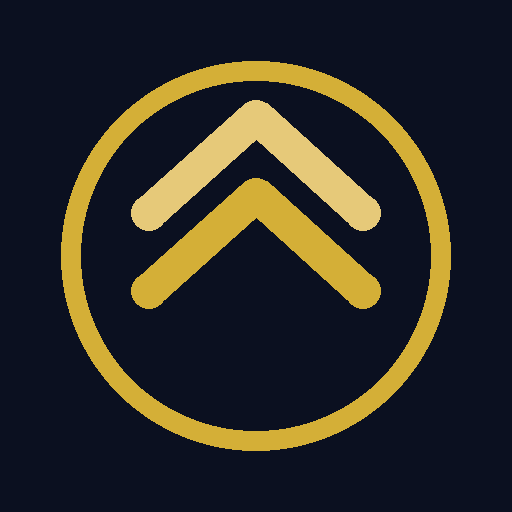
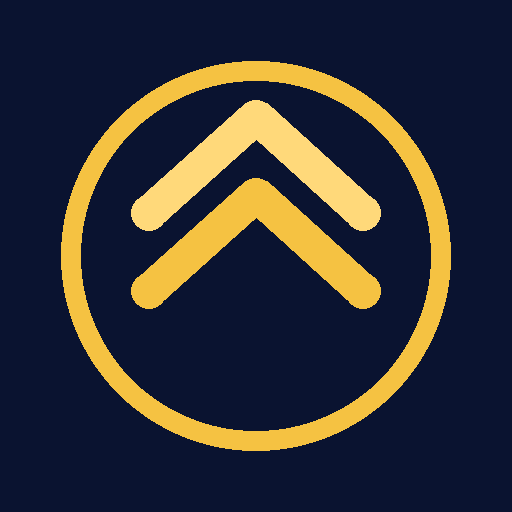
Add files via upload

Changed region(s): [[0.0938, 0.0938, 0.9062, 0.9062], [0.25, 0.1875, 0.75, 0.625]]

diff --git a/index.html b/index.html
@@ -1,29 +1,29 @@
 <!DOCTYPE html>
 <html lang="en"><head><meta charset="utf-8">
 <meta name="viewport" content="width=device-width, initial-scale=1, viewport-fit=cover">
-<meta name="theme-color" content="#0B1020"><link rel="manifest" href="manifest.webmanifest"><link rel="icon" href="icon-192.png"><link rel="apple-touch-icon" href="icon-192.png"><title>Ascend</title>
+<meta name="theme-color" content="#0A1330"><link rel="manifest" href="manifest.webmanifest"><link rel="icon" href="icon-192.png"><link rel="apple-touch-icon" href="icon-192.png"><title>Ascend</title>
 <style>
-:root{--bg:#0B1020;--card:#151C33;--ln:#2a3354;--ink:#F5EFE0;--mut:#9aa3bf;--gold:#D4AF37;--ch:#E6C979;--ruby:#E5395B;--amb:#F0A32F;--sap:#3D7BEB;--em:#2FBF8A;--am:#9B6BDB;color-scheme:dark}
+:root{--bg:#0A1330;--card:#16224A;--ln:#2F3F7A;--ink:#F5EFE0;--mut:#a9b6dc;--gold:#F5C242;--ch:#FFD97A;--ruby:#FF3D6A;--amb:#FFB020;--sap:#4C8DFF;--em:#22D69A;--am:#B07CFF;color-scheme:dark}
 *{box-sizing:border-box}body{margin:0;background:var(--bg);color:var(--ink);font:16px/1.4 "Trebuchet MS",Verdana,sans-serif;padding:env(safe-area-inset-top,0) 0 calc(84px + env(safe-area-inset-bottom,0))}
 .w{max-width:560px;margin:0 auto;padding:12px}
-.hero{background:linear-gradient(160deg,#0B1020,#17306b 70%,#2b5bb8);border:2px solid var(--gold);border-radius:18px;padding:16px;text-align:center}
+.hero{background:linear-gradient(160deg,#0A1330,#1f46b5 60%,#4a86ff);border:2px solid var(--gold);border-radius:18px;padding:16px;text-align:center}
 h1{margin:0;font:800 28px Georgia,serif;color:var(--ch);letter-spacing:4px}h3{margin:0 0 8px;font-size:16px;color:var(--ch)}h3.sec{margin:14px 0 8px}
 .card{background:var(--card);border:1px solid var(--ln);border-radius:14px;padding:14px;margin-top:12px}
 .mut{color:var(--mut);font-size:13px}.top{display:flex;gap:6px;align-items:center;flex-wrap:wrap}.top b{flex:1;font-size:17px}
 .chip{font-size:11px;font-weight:800;color:#fff;border-radius:10px;padding:2px 9px}.chip.o{background:transparent;border:1px solid var(--gold);color:var(--ch)}
-.nb{background:rgba(155,107,219,.16);border-left:4px solid var(--am);border-radius:8px;padding:8px 10px;margin:8px 0;font-size:14px}
+.nb{background:rgba(176,124,255,.18);border-left:4px solid var(--am);border-radius:8px;padding:8px 10px;margin:8px 0;font-size:14px}
 .btns{display:flex;gap:6px;flex-wrap:wrap;margin-top:8px}
 .b{background:transparent;color:var(--ink);border:1.5px solid var(--gold);border-radius:10px;padding:9px 12px;font:700 14px inherit;font-family:inherit;text-decoration:none;cursor:pointer;min-height:40px}
-.b.g{border-color:var(--em);color:var(--em)}.b.gold{background:var(--gold);color:#0B1020}
+.b.g{border-color:var(--em);color:var(--em)}.b.gold{background:linear-gradient(135deg,#F5C242,#FFE08F);color:#0A1330;border-color:#FFE08F;box-shadow:0 0 12px rgba(245,194,66,.35)}
 .sc{display:flex;align-items:center;gap:14px}.ring{position:relative;width:110px;height:110px;flex:none}.ring svg{transform:rotate(-90deg)}.ring b{position:absolute;inset:0;display:grid;place-items:center;font:800 30px Georgia,serif;color:var(--ch)}
-.st{font-weight:700}.bl{display:flex;justify-content:space-between;font-size:13px;margin-top:10px}.bar{height:10px;background:#0B1020;border-radius:6px;overflow:hidden;margin-top:3px}.bar i{display:block;height:100%;background:linear-gradient(90deg,var(--gold),var(--ch))}
+.st{font-weight:700}.bl{display:flex;justify-content:space-between;font-size:13px;margin-top:10px}.bar{height:10px;background:#0A1330;border-radius:6px;overflow:hidden;margin-top:3px}.bar i{display:block;height:100%;background:linear-gradient(90deg,var(--gold),var(--ch))}
 label{display:block;font-size:13px;color:var(--mut);margin:10px 0 3px}label.ck{display:flex;gap:8px;align-items:center;color:var(--ink);font-size:15px}
-input,select,textarea{width:100%;padding:10px;border:1.5px solid var(--ln);border-radius:10px;background:#0B1020;color:var(--ink);font:inherit}input[type=checkbox]{width:22px;height:22px}
-.fr{display:flex;gap:6px}.mic{background:var(--am);border:0;border-radius:10px;width:46px;font-size:18px;cursor:pointer}
+input,select,textarea{width:100%;padding:10px;border:1.5px solid var(--ln);border-radius:10px;background:#0A1330;color:var(--ink);font:inherit}input[type=checkbox]{width:22px;height:22px}
+.fr{display:flex;gap:6px}.fr textarea{flex:1}.mic{flex:none;width:46px;height:46px;border-radius:50%;display:grid;place-items:center;background:radial-gradient(circle at 30% 30%,#2e4399,#0A1330);border:2px solid var(--gold);box-shadow:0 0 10px rgba(245,194,66,.4);cursor:pointer}.mic.on{animation:pl 1s infinite;box-shadow:0 0 18px var(--gold)}@keyframes pl{50%{transform:scale(1.12)}}@media (prefers-reduced-motion:reduce){.mic.on{animation:none}}
 button:focus-visible,input:focus-visible,select:focus-visible,textarea:focus-visible,a:focus-visible{outline:3px solid var(--ch);outline-offset:2px}
 .row{display:flex;justify-content:space-between;padding:6px 0;border-top:1px solid var(--ln);font-size:14px}.row:first-of-type{border-top:0}
-nav{position:fixed;left:0;right:0;bottom:0;background:#070b17;border-top:1px solid var(--gold);display:flex;gap:6px;padding:8px 8px calc(8px + env(safe-area-inset-bottom,0))}
-nav button{flex:1;background:transparent;border:0;color:var(--mut);font:700 15px inherit;font-family:inherit;padding:12px 4px;border-radius:12px;cursor:pointer}nav button.act{background:var(--gold);color:#0B1020}
+nav{position:fixed;left:0;right:0;bottom:0;background:#060a1c;border-top:1px solid var(--gold);display:flex;gap:6px;padding:8px 8px calc(8px + env(safe-area-inset-bottom,0))}
+nav button{flex:1;background:transparent;border:0;color:var(--mut);font:700 15px inherit;font-family:inherit;padding:12px 4px;border-radius:12px;cursor:pointer}nav button.act{background:var(--gold);color:#0A1330}
 .cf{position:fixed;top:-16px;width:10px;height:14px;z-index:9;animation:fall 2.6s linear forwards}@keyframes fall{to{transform:translateY(110vh) rotate(540deg)}}
 </style></head><body><div class="w" id="app"></div>
 <nav><button data-a="tab" data-v="today">Today</button><button data-a="tab" data-v="leads">Leads</button><button data-a="tab" data-v="ins">Insights</button></nav>
@@ -38,7 +38,10 @@ const ymd=d=>d.getFullYear()+'-'+String(d.getMonth()+1).padStart(2,'0')+'-'+Stri
 const esc=s=>String(s==null?'':s).replace(/[&<>"]/g,c=>({'&':'&amp;','<':'&lt;','>':'&gt;','"':'&quot;'}[c]));
 const td=()=>ymd(new Date()),add=n=>{const d=new Date();d.setDate(d.getDate()+n);return ymd(d)},dd=s=>s?Math.round((new Date(td())-new Date(s))/864e5):0,money=n=>'₦'+Math.round(n||0).toLocaleString(),wa=p=>p.replace(/[^\d]/g,'').replace(/^0/,'234');
 const VS=!!(window.SpeechRecognition||window.webkitSpeechRecognition);
-let S=null,tab='today',ed,mg=null,lg=null,pd=null,mtx='';
+const MI='<svg viewBox="0 0 24 24" width="22" height="22" fill="none" stroke="#F5C242" stroke-width="2" stroke-linecap="round" stroke-linejoin="round"><rect x="9" y="3" width="6" height="11" rx="3" fill="#F5C242"/><path d="M5 11a7 7 0 0 0 14 0M12 18v3M9 21h6"/></svg>';
+const mc=(id,l)=>VS?`<button class="mic" data-a="mic" data-t="${id}" aria-label="Speak ${l}">${MI}</button>`:'';
+const QU=[['Whatever you do, work at it with all your heart.','Colossians 3:23'],['Well done is better than well said.','Benjamin Franklin'],['Commit your work to the Lord, and your plans will be established.','Proverbs 16:3'],['The secret of getting ahead is getting started.','Mark Twain'],['Diligent hands bring wealth.','Proverbs 10:4'],['Price is what you pay. Value is what you get.','Warren Buffett'],['Patience is a key element of success.','Bill Gates'],['The hand of the diligent will rule.','Proverbs 12:24']];
+let S=null,tab='today',ed,mg=null,lg=null,pd=null,mtx='',q='',fs='',ip=null;
 try{S=JSON.parse(localStorage.getItem('asc'))}catch(e){}
 if(!S||!S.leads)S={leads:[],log:[],tg:{d:2,w:10,m:40},cel:''};
 const save=()=>{try{localStorage.setItem('asc',JSON.stringify(S))}catch(e){}};
@@ -62,27 +65,27 @@ function vToday(){const dt=Math.max(1,S.tg.d),c=cnt(td()),t=S.log.filter(e=>e.d=
  const dl=S.leads.filter(l=>active(l)&&((l.fu&&l.fu<=td())||dd(l.last||l.created)>=7)).sort((a,b)=>RO[rate(a)]-RO[rate(b)]||(a.fu||'').localeCompare(b.fu||''));
  const bar=(l,v,g)=>{g=Math.max(1,g);return `<div class="bl"><span>${l}</span><span>${v} / ${g}</span></div><div class="bar"><i style="width:${Math.min(100,v/g*100)}%"></i></div>`};
  const pv=S.leads.filter(active).reduce((a,l)=>a+(+l.val||0),0),cm=S.leads.filter(l=>l.closed&&l.closed>=td().slice(0,8)+'01').reduce((a,l)=>a+(+l.val||0),0);
- return `<div class="hero"><h1>ASCEND</h1><div class="mut">${new Date().toLocaleDateString(undefined,{weekday:'long',day:'numeric',month:'long'})} · Rank: <b style="color:var(--ch)">${rk}</b></div></div>
-<div class="card"><div class="sc"><div class="ring"><svg width="110" height="110"><circle cx="55" cy="55" r="${R}" fill="none" stroke="#0B1020" stroke-width="11"/><circle cx="55" cy="55" r="${R}" fill="none" stroke="${sc>=70?'var(--em)':'var(--gold)'}" stroke-width="11" stroke-linecap="round" stroke-dasharray="${C}" stroke-dashoffset="${C*(1-sc/100)}"/></svg><b>${sc}</b></div><div><div class="st">${st?'🔥 '+st+'-day momentum':'Hit your daily target to start momentum'}</div><div class="mut">Daily score out of 100: contacts, inspections booked and deals closed.</div></div></div>${bar('Today',c,dt)}${bar('This week',cnt(wk()),S.tg.w)}${bar('This month',cnt(td().slice(0,8)+'01'),S.tg.m)}</div>
-<div class="card"><div class="row"><span>Pipeline value</span><b>${money(pv)}</b></div><div class="row"><span>Closed this month</span><b style="color:var(--em)">${money(cm)}</b></div></div>
+ return `<div class="hero"><h1>ASCEND</h1><div class="mut">${new Date().toLocaleDateString(undefined,{weekday:'long',day:'numeric',month:'long'})} · Rank: <b style="color:var(--ch)">${rk}</b></div></div>${ip?'<div class="btns" style="justify-content:center"><button class="b gold" data-a="inst">Install Ascend</button></div>':''}<div class="card" style="text-align:center;font:italic 14px Georgia,serif;color:var(--ch)">“${QU[Math.floor(Date.now()/864e5)%QU.length][0]}”<div class="mut" style="font-style:normal">${QU[Math.floor(Date.now()/864e5)%QU.length][1]}</div></div>
+<div class="card"><div class="sc"><div class="ring"><svg width="110" height="110"><circle cx="55" cy="55" r="${R}" fill="none" stroke="#0A1330" stroke-width="11"/><circle cx="55" cy="55" r="${R}" fill="none" stroke="${sc>=70?'var(--em)':'var(--gold)'}" stroke-width="11" stroke-linecap="round" stroke-dasharray="${C}" stroke-dashoffset="${C*(1-sc/100)}"/></svg><b>${sc}</b></div><div><div class="st">${st?'🔥 '+st+'-day momentum':'Hit your daily target to start momentum'}</div><div class="mut">Daily score out of 100: contacts, inspections booked and deals closed.</div></div></div>${bar('Today',c,dt)}${bar('This week',cnt(wk()),S.tg.w)}${bar('This month',cnt(td().slice(0,8)+'01'),S.tg.m)}</div>
+<div class="card"><div class="row"><span>Hot leads</span><b style="color:var(--ruby)">${S.leads.filter(l=>rate(l)==='hot').length}</b></div><div class="row"><span>Pipeline value</span><b>${money(pv)}</b></div><div class="row"><span>Closed this month</span><b style="color:var(--em)">${money(cm)}</b></div></div>
 <h3 class="sec">Call these first (${dl.length})</h3>${dl.length?dl.map(card).join(''):'<div class="card mut">Nobody is due. Add leads in Leads.</div>'}`}
-function vLeads(){const a=[...S.leads].sort((x,y)=>(active(y)-active(x))||((RO[rate(x)]??9)-(RO[rate(y)]??9)));
- return `<div class="hero"><h1>LEADS</h1><div class="mut">${S.leads.length} in total</div></div><div class="btns"><button class="b gold" data-a="new">+ New lead</button></div>${a.length?a.map(card).join(''):'<div class="card mut">No leads yet. Tap New lead, or use the microphone to speak the details.</div>'}`}
+function llist(){const k=q.toLowerCase(),a=S.leads.filter(l=>(!fs||l.stage===fs)&&(!k||(l.name+' '+l.phone+' '+l.prop).toLowerCase().includes(k))).sort((x,y)=>(active(y)-active(x))||((RO[rate(x)]??9)-(RO[rate(y)]??9)));return a.length?a.map(card).join(''):'<div class="card mut">No leads here yet. Tap New lead, or speak the details with the microphone.</div>'}
+function vLeads(){return `<div class="hero"><h1>LEADS</h1><div class="mut">${S.leads.length} in total</div></div><div class="btns"><button class="b gold" data-a="new">+ New lead</button></div><div class="fr" style="margin-top:10px"><input id="sq" placeholder="Search name, phone or property" value="${esc(q)}">${mc('sq','search')}</div><div class="btns">${['',...ST].map(t=>`<button class="b${fs===t?' gold':''}" data-a="fs" data-s="${t}">${t||'All'}</button>`).join('')}</div><div id="ll">${llist()}</div>`}
 function vForm(){const x=ed||{name:'',phone:'',prop:'',src:SRC[0],stage:'New',fu:add(1),val:'',notes:'',q:[],lost:''};
- const f=(id,l,v,t,m)=>`<label for="${id}">${l}</label><div class="fr"><input id="${id}" type="${t||'text'}" value="${esc(v)}">${m&&VS?`<button class="mic" data-a="mic" data-t="${id}" aria-label="Speak ${l}">🎤</button>`:''}</div>`;
+ const f=(id,l,v,t,m)=>`<label for="${id}">${l}</label><div class="fr"><input id="${id}" type="${t||'text'}" value="${esc(v)}">${m?mc(id,l):''}</div>`;
  const sel=(id,l,a,v)=>`<label for="${id}">${l}</label><select id="${id}">${a.map(o=>`<option ${o===v?'selected':''}>${o}</option>`).join('')}</select>`;
- return `<div class="hero"><h1>${ed?'EDIT LEAD':'NEW LEAD'}</h1></div><div class="card">${f('fn','Name',x.name,0,1)}${f('fp','Phone',x.phone,'tel',1)}${f('fpr','Property of interest',x.prop,0,1)}${sel('fs','Where the lead came from',SRC,x.src)}${sel('fst','Stage',ST,x.stage)}${f('ff','Next follow-up',x.fu,'date')}${f('fv','Deal value (₦)',x.val||'','number')}${f('fnt','Notes',x.notes,0,1)}
+ return `<div class="hero"><h1>${ed?'EDIT LEAD':'NEW LEAD'}</h1></div><div class="card">${f('fn','Name',x.name,0,1)}${f('fp','Phone',x.phone,'tel',1)}${f('fpr','Property of interest',x.prop,0,1)}${sel('fs','Where the lead came from',SRC,x.src)}${sel('fst','Stage',ST,x.stage)}${f('ff','Next follow-up',x.fu,'date')}${f('fv','Deal value (₦)',x.val||'','number',1)}${f('fnt','Notes',x.notes,0,1)}
 <h3 class="sec">Is this a serious buyer?</h3>${QS.map((q,i)=>`<label class="ck"><input type="checkbox" id="q${i}" ${x.q&&x.q[i]?'checked':''}>${q}</label>`).join('')}<div class="mut">3 or 4 ticks is Hot, 2 is Warm, fewer is Cold.</div>${sel('fl','Reason if lost',LR,x.lost||LR[0])}
 <div class="btns"><button class="b gold" data-a="sv">Save lead</button><button class="b" data-a="cx">Cancel</button>${ed?`<button class="b" data-a="dl" data-id="${ed.id}">${pd===ed.id?'Tap again':'Delete'}</button>`:''}</div></div>`}
 function vMsg(){const l=S.leads.find(x=>x.id===mg);
- return `<div class="hero"><h1>MESSAGE</h1><div class="mut">For ${esc(l.name)}</div></div><div class="card"><div class="btns">${MT.map((m,i)=>`<button class="b" data-a="mt" data-i="${i}">${m[0]}</button>`).join('')}</div><label for="mt">Edit before sending</label><textarea id="mt" rows="6">${esc(mtx)}</textarea><div class="btns"><button class="b gold" data-a="wa">Send on WhatsApp</button><button class="b" data-a="cp">Copy</button><button class="b" data-a="mgx">Back</button></div></div>`}
+ return `<div class="hero"><h1>MESSAGE</h1><div class="mut">For ${esc(l.name)}</div></div><div class="card"><div class="btns">${MT.map((m,i)=>`<button class="b" data-a="mt" data-i="${i}">${m[0]}</button>`).join('')}</div><label for="mt">Edit before sending</label><div class="fr"><textarea id="mt" rows="6">${esc(mtx)}</textarea>${mc('mt','message')}</div><div class="btns"><button class="b gold" data-a="wa">Send on WhatsApp</button><button class="b" data-a="cp">Copy</button><button class="b" data-a="mgx">Back</button></div></div>`}
 function vIns(){const c=(a,f)=>a.filter(f).length,lost=S.leads.filter(l=>l.stage==='Lost');
- return `<div class="hero"><h1>INSIGHTS</h1></div><div class="card"><h3>Targets (contacts)</h3><label for="td">Per day</label><input id="td" type="number" min="1" value="${S.tg.d}"><label for="tw">Per week</label><input id="tw" type="number" min="1" value="${S.tg.w}"><label for="tm">Per month</label><input id="tm" type="number" min="1" value="${S.tg.m}"><div class="btns"><button class="b gold" data-a="tg">Save targets</button></div></div>
+ return `<div class="hero"><h1>INSIGHTS</h1></div><div class="card"><h3>Targets (contacts)</h3><label for="td">Per day</label><div class="fr"><input id="td" type="number" min="1" value="${S.tg.d}">${mc('td','Per day')}</div><label for="tw">Per week</label><div class="fr"><input id="tw" type="number" min="1" value="${S.tg.w}">${mc('tw','Per week')}</div><label for="tm">Per month</label><div class="fr"><input id="tm" type="number" min="1" value="${S.tg.m}">${mc('tm','Per month')}</div><div class="btns"><button class="b gold" data-a="tg">Save targets</button></div></div>
 <div class="card"><h3>By stage</h3>${ST.map(s=>`<div class="row"><span>${s}</span><b>${c(S.leads,l=>l.stage===s)}</b></div>`).join('')}</div>
 <div class="card"><h3>Best sources (leads, sold)</h3>${SRC.map(s=>`<div class="row"><span>${s}</span><b>${c(S.leads,l=>l.src===s)} · ${c(S.leads,l=>l.src===s&&l.stage==='Sold')}</b></div>`).join('')}</div>
 <div class="card"><h3>Why leads said no</h3>${lost.length?LR.map(r=>`<div class="row"><span>${r}</span><b>${c(lost,l=>l.lost===r)}</b></div>`).join(''):'<div class="mut">No lost leads yet.</div>'}</div>
 <div class="card"><h3>Backup</h3><div class="mut">Export, copy the text somewhere safe. To restore, paste it here and tap Import.</div><textarea id="bk" rows="4"></textarea><div class="btns"><button class="b" data-a="ex">Export</button><button class="b" data-a="im">Import</button></div></div>`}
-function mic(id){const R=window.SpeechRecognition||window.webkitSpeechRecognition,r=new R();r.lang='en-NG';r.onresult=e=>{let t=e.results[0][0].transcript;const el=$(id);if(id==='fp')el.value=t.replace(/plus/gi,'+').replace(/[^\d+]/g,'');else el.value=(el.value?el.value+' ':'')+t};r.start()}
+function mic(id){const R=window.SpeechRecognition||window.webkitSpeechRecognition,r=new R(),el=$(id),bt=document.querySelector('[data-t="'+id+'"]');r.lang='en-NG';if(bt)bt.classList.add('on');const done=()=>{if(bt)bt.classList.remove('on')};r.onend=done;r.onerror=done;r.onresult=e=>{const t=e.results[0][0].transcript;if(['fp','fv','td','tw','tm'].includes(id))el.value=t.replace(/plus/gi,'+').replace(id==='fp'?/[^\d+]/g:/[^\d]/g,'');else el.value=(el.value?el.value+' ':'')+t;el.dispatchEvent(new Event('input',{bubbles:true}))};r.start()}
 function confetti(){if(matchMedia('(prefers-reduced-motion:reduce)').matches)return;const cs=['#D4AF37','#E5395B','#3D7BEB','#2FBF8A','#9B6BDB'];for(let i=0;i<50;i++){const d=document.createElement('div');d.className='cf';d.style.cssText='left:'+Math.random()*100+'vw;background:'+cs[i%5]+';animation-delay:'+Math.random()*.6+'s';document.body.appendChild(d);setTimeout(()=>d.remove(),3600)}}
 function out(id,o){const l=S.leads.find(x=>x.id===id);S.log.push({d:td(),id,o});l.last=td();l.fu=add(o==='noanswer'?1:o==='notnow'?14:3);
  if(o==='inspection'&&active(l))l.stage='Inspection';else if(o==='closed'){l.stage='Sold';l.closed=td();confetti()}else if(l.stage==='New')l.stage='Contacted';
@@ -97,12 +100,14 @@ document.addEventListener('click',e=>{const b=e.target.closest('[data-a]');if(!b
  if(a==='wa'||a==='cp'){mtx=$('mt').value;if(a==='wa'){const l=S.leads.find(x=>x.id===mg);open('https://wa.me/'+wa(l.phone||'')+'?text='+encodeURIComponent(mtx),'_blank')}else if(navigator.clipboard)navigator.clipboard.writeText(mtx);return}
  if(a==='ex'){$('bk').value=JSON.stringify(S);$('bk').select();return}
  if(a==='sv'){saveLead();return}
+ if(a==='inst'){if(ip){ip.prompt();ip=null}render();return}
  if(a==='tab'){tab=b.dataset.v;ed=undefined;mg=null}
  else if(a==='lg')lg=lg===id?null:id;
  else if(a==='out'){out(id,b.dataset.o)}
  else if(a==='mg'){mg=id;mtx=''}
  else if(a==='mgx')mg=null;
  else if(a==='mt'){const l=S.leads.find(x=>x.id===mg);mtx=MT[+b.dataset.i][1].replace('{n}',l.name.split(' ')[0]).replace('{p}',l.prop||'the property')}
+ else if(a==='fs')fs=b.dataset.s;
  else if(a==='new')ed=null;
  else if(a==='ed')ed=S.leads.find(x=>x.id===id);
  else if(a==='cx')ed=undefined;
@@ -110,5 +115,6 @@ document.addEventListener('click',e=>{const b=e.target.closest('[data-a]');if(!b
  else if(a==='tg')S.tg={d:+$('td').value||1,w:+$('tw').value||1,m:+$('tm').value||1};
  else if(a==='im'){try{const x=JSON.parse($('bk').value);if(x.leads)S=x}catch(er){}}
  save();render()});
+addEventListener('beforeinstallprompt',e=>{e.preventDefault();ip=e;if(ed===undefined&&!mg)render()});addEventListener('appinstalled',()=>{ip=null;render()});document.addEventListener('input',e=>{if(e.target.id==='sq'){q=e.target.value;$('ll').innerHTML=llist()}});
 render();if('serviceWorker' in navigator)addEventListener('load',()=>navigator.serviceWorker.register('sw.js').catch(()=>{}));
 </script></body></html>

diff --git a/sw.js b/sw.js
@@ -1,4 +1,4 @@
-const C='asc-v1',A=['./','index.html','manifest.webmanifest','icon-192.png','icon-512.png'];
+const C='asc-v2',A=['./','index.html','manifest.webmanifest','icon-192.png','icon-512.png'];
 self.addEventListener('install',e=>{e.waitUntil(caches.open(C).then(c=>c.addAll(A)));self.skipWaiting()});
 self.addEventListener('activate',e=>{e.waitUntil(caches.keys().then(k=>Promise.all(k.filter(x=>x!==C).map(x=>caches.delete(x)))));self.clients.claim()});
 self.addEventListener('fetch',e=>{if(e.request.method!=='GET')return;e.respondWith(fetch(e.request).then(r=>{const cp=r.clone();caches.open(C).then(c=>c.put(e.request,cp));return r}).catch(()=>caches.match(e.request).then(m=>m||caches.match('index.html'))))});
